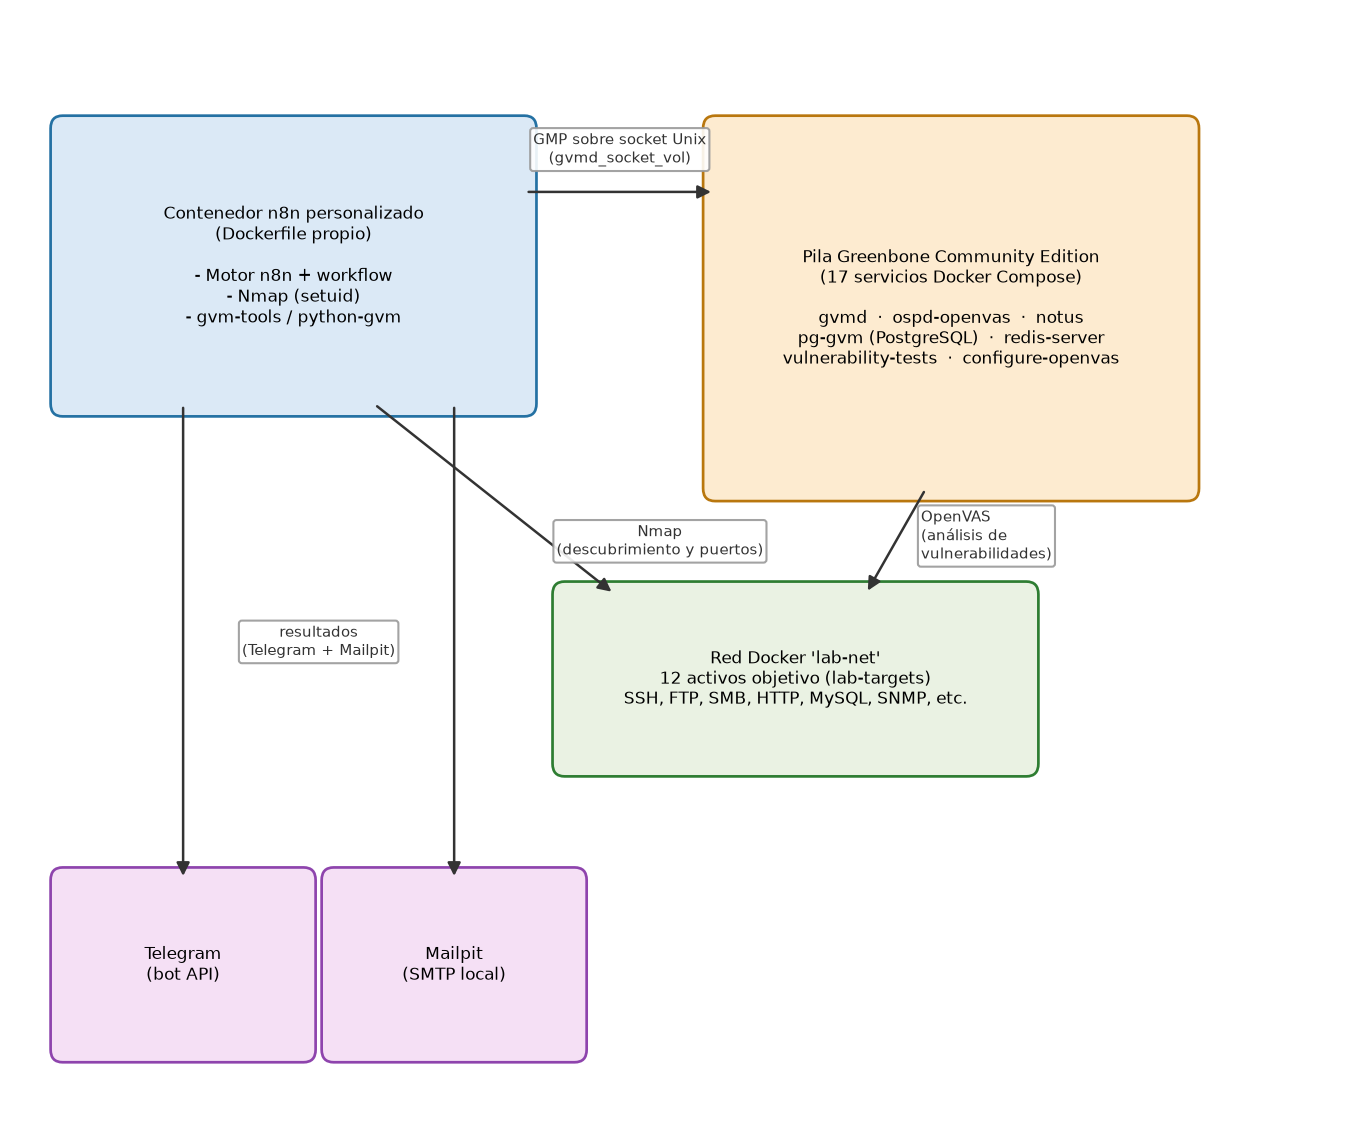
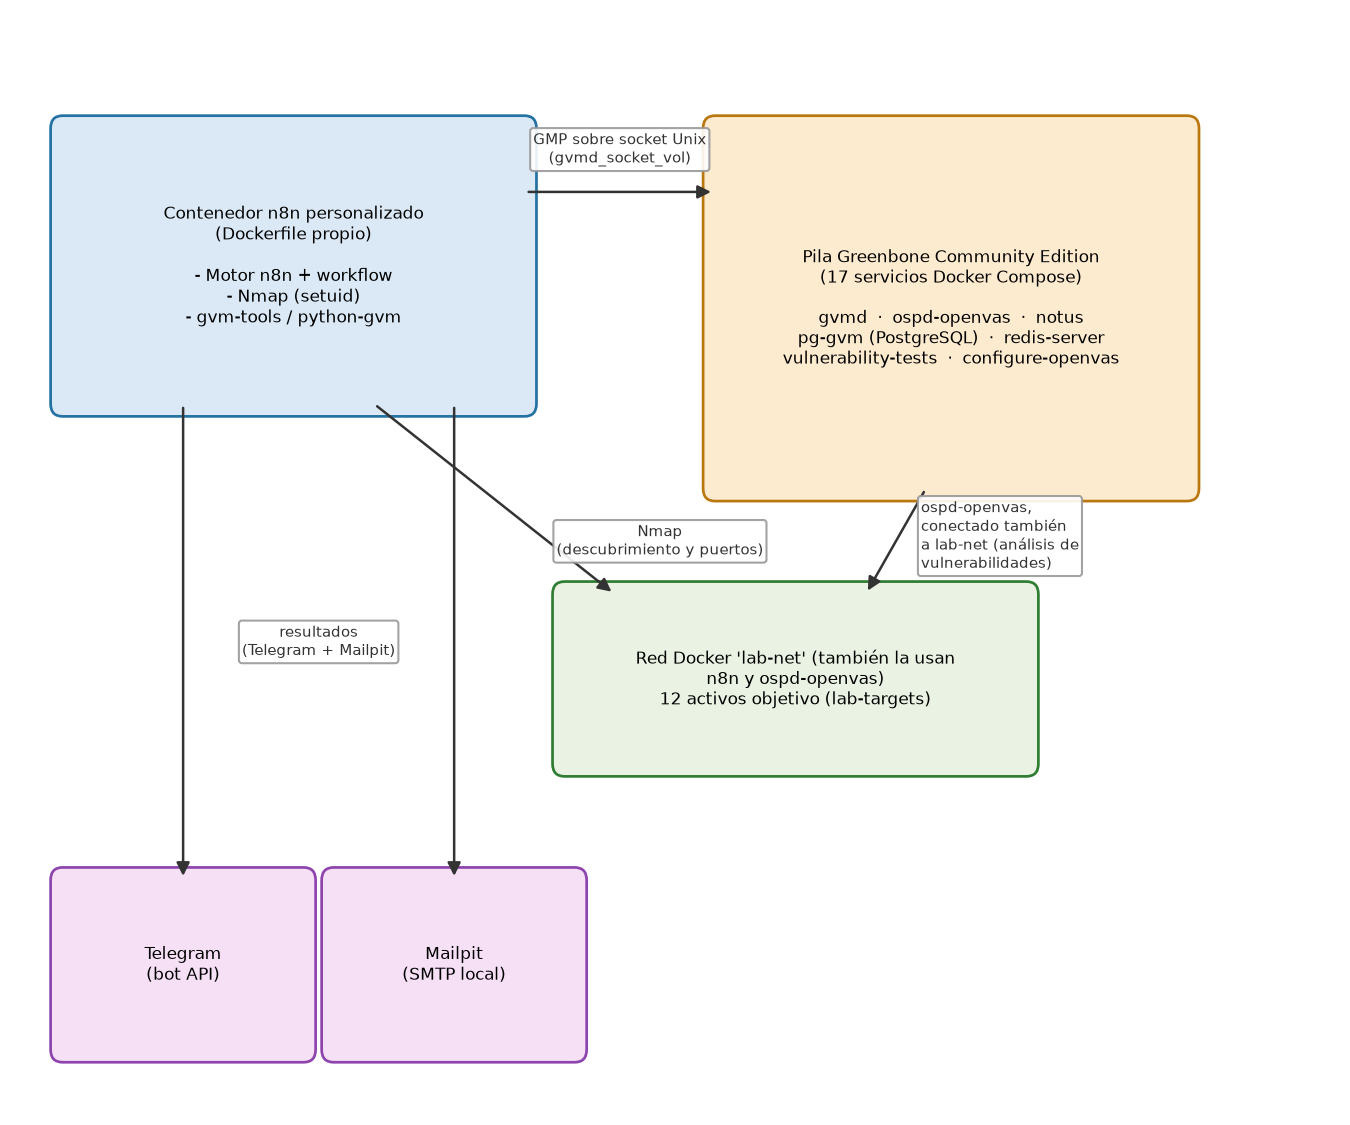
fix: la figura 1 muestra ospd-openvas y n8n conectados a lab-net

Changed region(s): [[0.4667, 0.56, 0.7156, 0.6533], [0.6844, 0.4356, 0.8089, 0.5289]]

diff --git a/docs/figures/gen_fig1_arquitectura.py b/docs/figures/gen_fig1_arquitectura.py
@@ -40,7 +40,7 @@ label((5.95, 9.0), "GMP sobre socket Unix\n(gvmd_socket_vol)")
 
 # Red lab-net y objetivos (desplazada a la derecha, bajo Greenbone)
 box(5.4, 3.2, 4.6, 1.6,
-    "Red Docker 'lab-net'\n12 activos objetivo (lab-targets)\nSSH, FTP, SMB, HTTP, MySQL, SNMP, etc.",
+    "Red Docker 'lab-net' (también la usan\nn8n y ospd-openvas)\n12 activos objetivo (lab-targets)",
     fc='#eaf2e3', ec='#2e7d32', fontsize=8)
 
 arrow((3.5, 6.6), (5.9, 4.8))
@@ -48,7 +48,7 @@ arrow((3.5, 6.6), (5.9, 4.8))
 label((6.35, 5.3), "Nmap\n(descubrimiento y puertos)", ha='center')
 
 arrow((9.0, 5.8), (8.4, 4.8))
-label((8.95, 5.35), "OpenVAS\n(análisis de\nvulnerabilidades)", ha='left')
+label((8.95, 5.35), "ospd-openvas,\nconectado también\na lab-net (análisis de\nvulnerabilidades)", ha='left')
 
 # Notificaciones (a la izquierda, sin cruzar la red lab-net)
 box(0.4, 0.5, 2.4, 1.6, "Telegram\n(bot API)", fc='#f5e0f5', ec='#8e44ad', fontsize=8.3)
